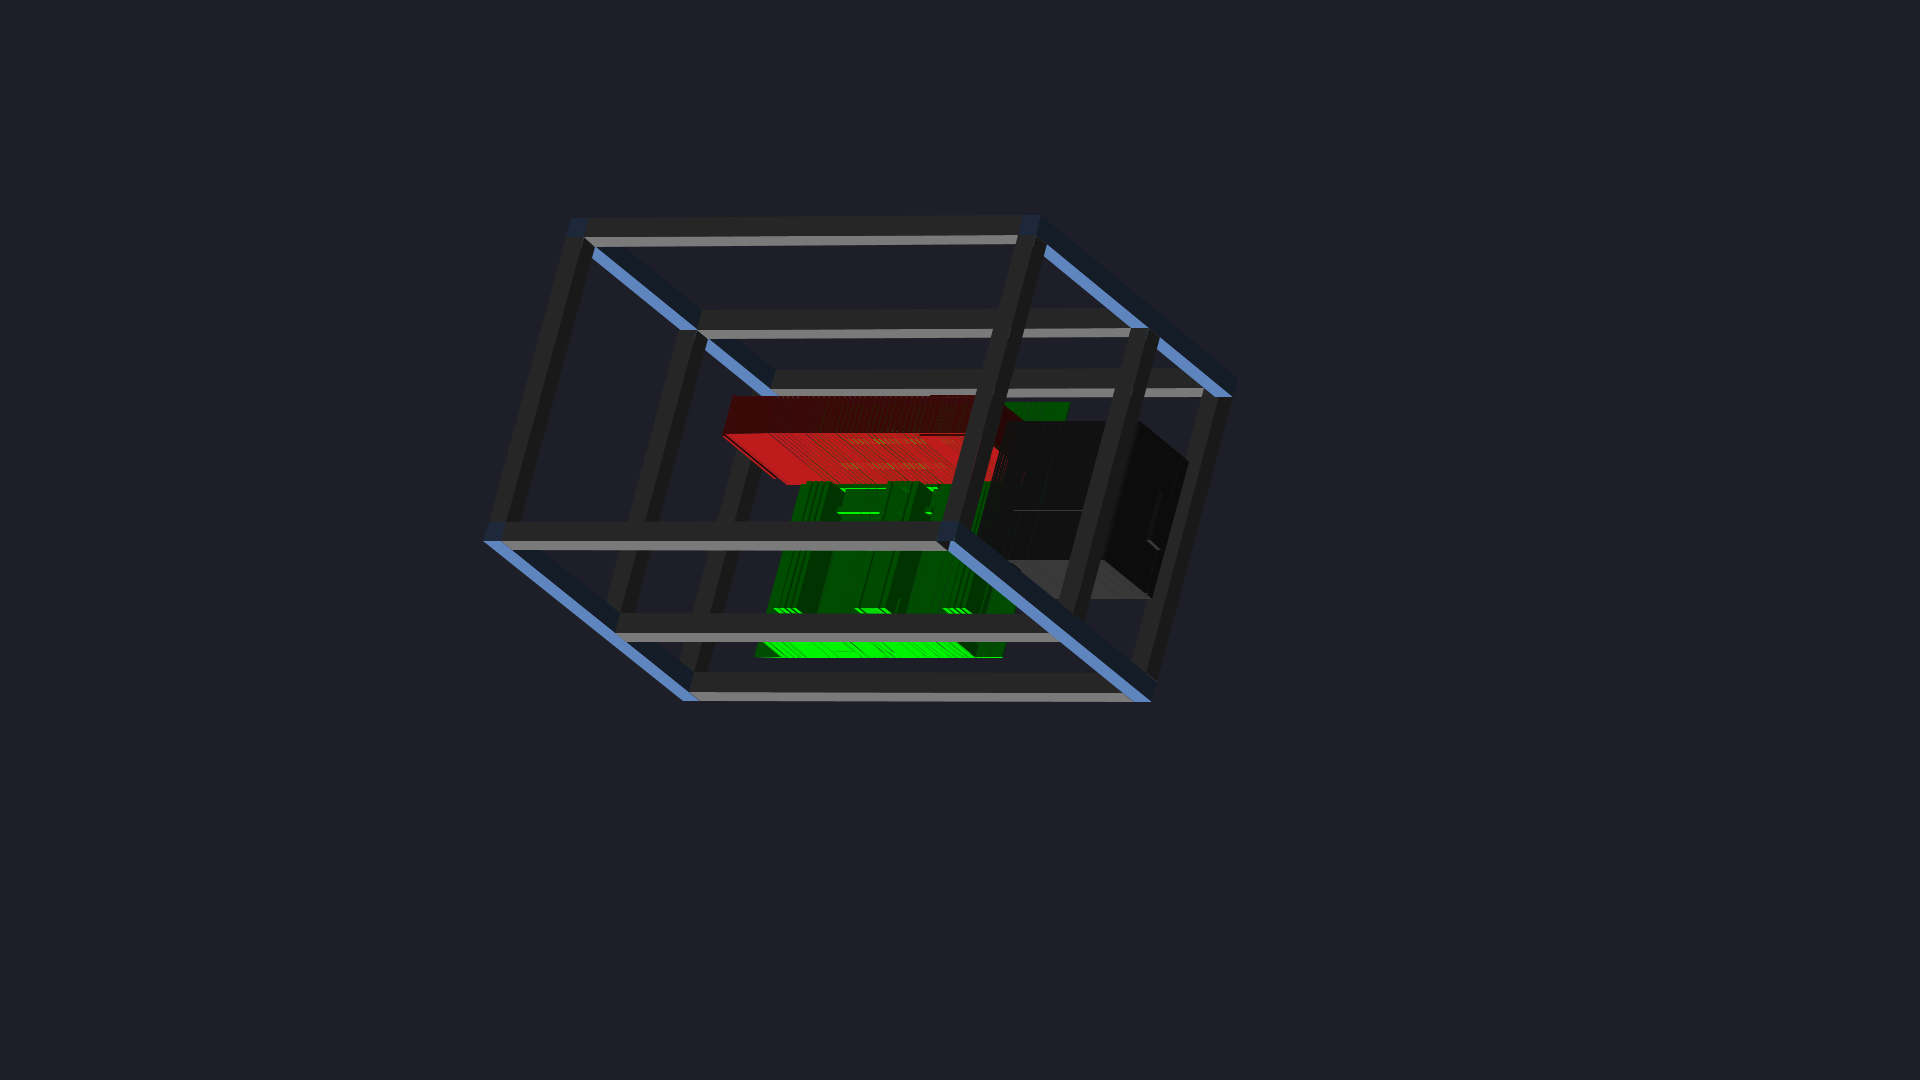
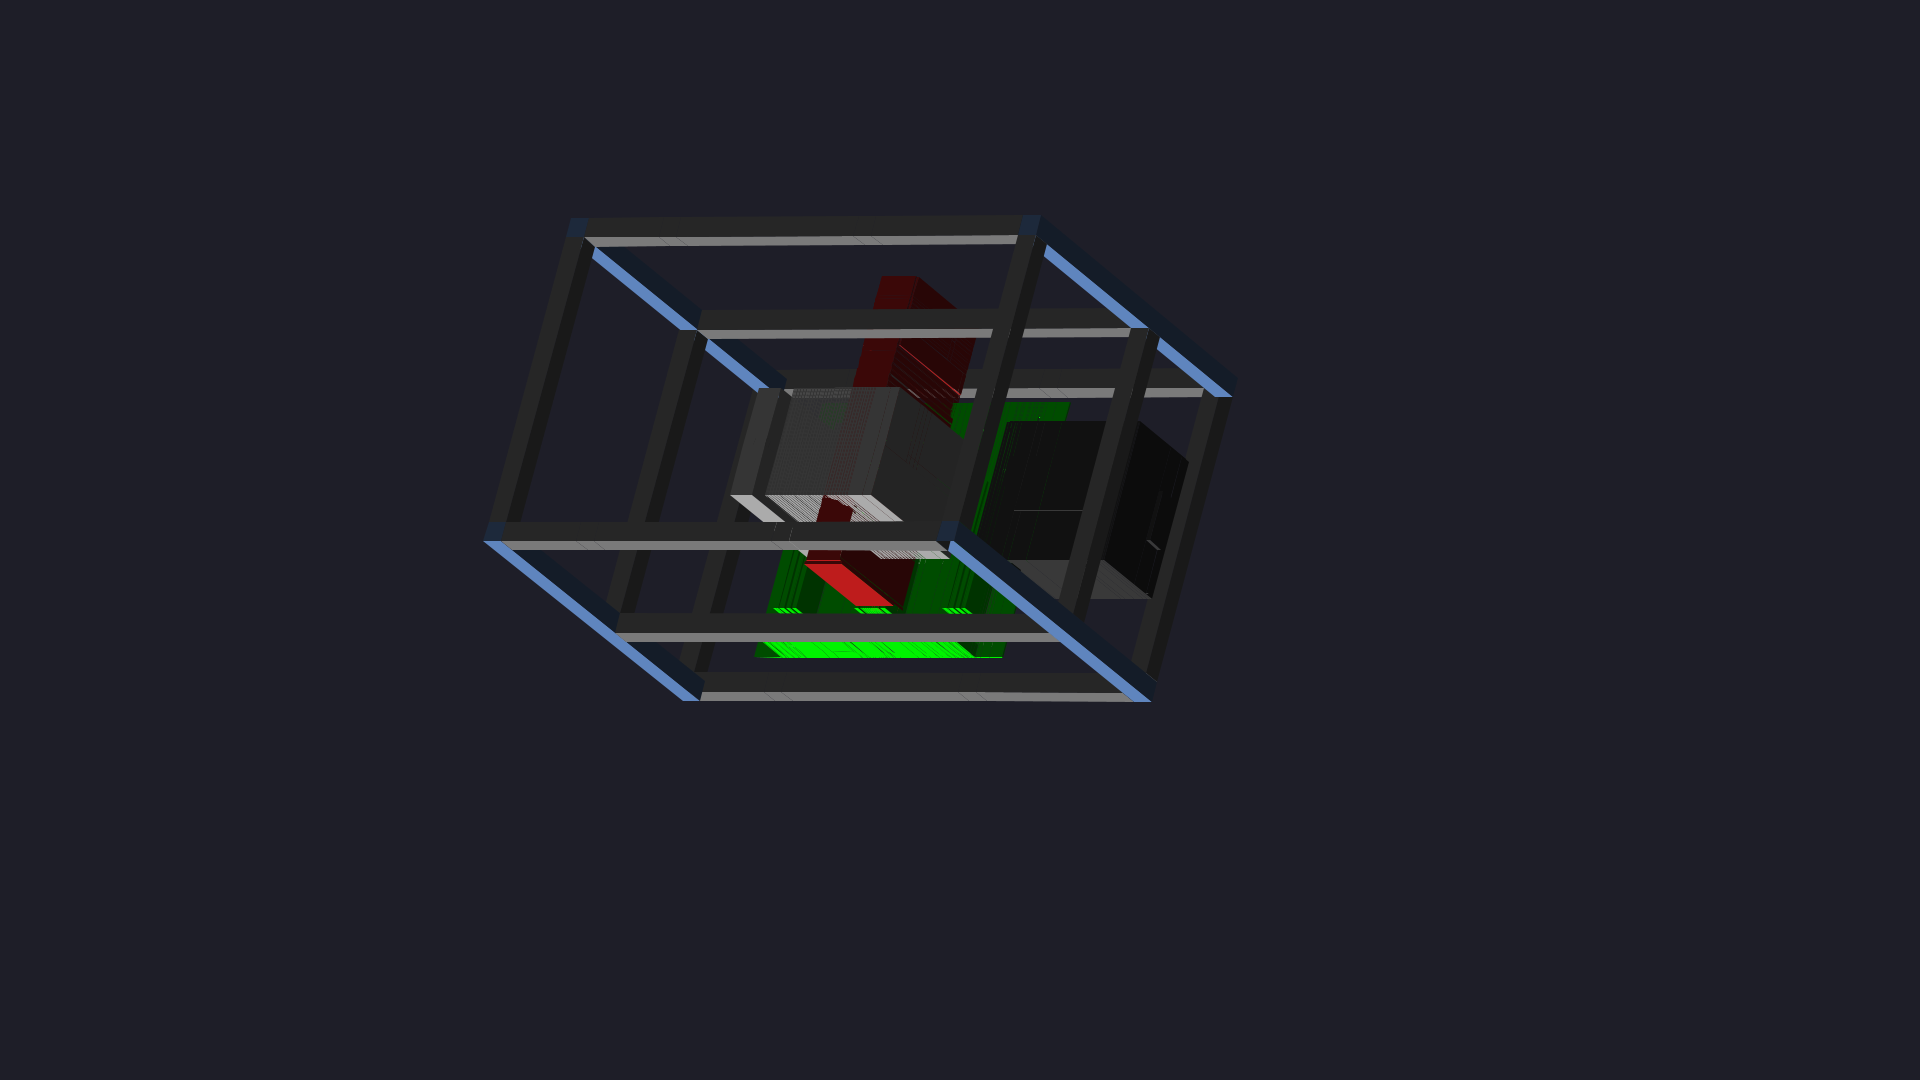
Fix GPU rotation: yOnly (length along Z), height 15mm

Changed region(s): [[0.375, 0.2444, 0.5312, 0.5806]]

diff --git a/pccase/src/main/java/com/github/grishberg/cad3d/pccase/PcCaseApp.kt b/pccase/src/main/java/com/github/grishberg/cad3d/pccase/PcCaseApp.kt
@@ -54,8 +54,8 @@ fun main(args: Array<String>) {
 
     println("\nBuilding GPU (Gigabyte RTX 3090 Turbo)...")
     val gpu = Gpu().build()
-        .rotate(Angles3d.zOnly(90.0))
-        .move(-50.0, 15.0 + 290.0 / 2, -65.0)
+        .rotate(Angles3d.yOnly(90.0))
+        .move(-50.0, 15.0 + 112.0 / 2, -65.0)
 
     println("\nBuilding PSU (ATX)...")
     val psu = Psu().build()

diff --git a/viewer/src/main/java/com/github/grishberg/cad3d/viewer/Main.kt b/viewer/src/main/java/com/github/grishberg/cad3d/viewer/Main.kt
@@ -247,7 +247,7 @@ class Main(title: String?) : JFrame(title), GLEventListener {
             val bottomY = p / 2 + p / 2
 
             val mb = Motherboard().build().move(-40.0, bottomY + 1.6 / 2, 0.0)
-            val gpu = Gpu().build().rotate(Angles3d.zOnly(90.0)).move(-50.0, 15.0 + 290.0 / 2, -65.0)
+            val gpu = Gpu().build().rotate(Angles3d.yOnly(90.0)).move(-50.0, 15.0 + 112.0 / 2, -65.0)
             val psu = Psu().build().move(175.0, bottomY + 86.0 / 2, 0.0)
             val cooler = Cooler().build().move(-50.0, bottomY + 1.6 + 80.0, -20.0)
 